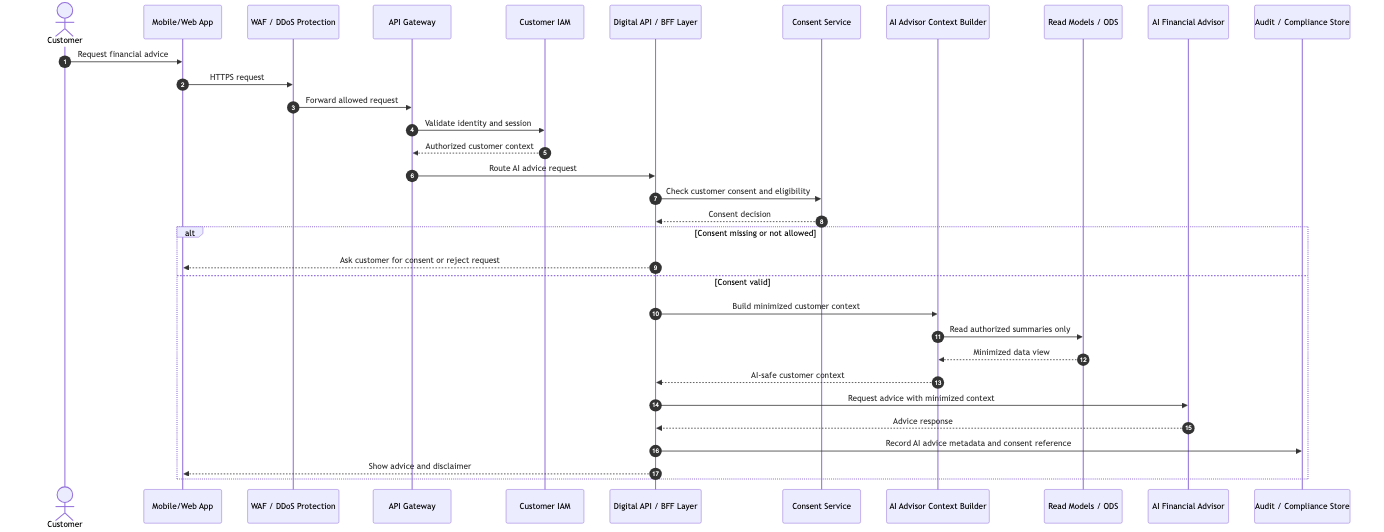
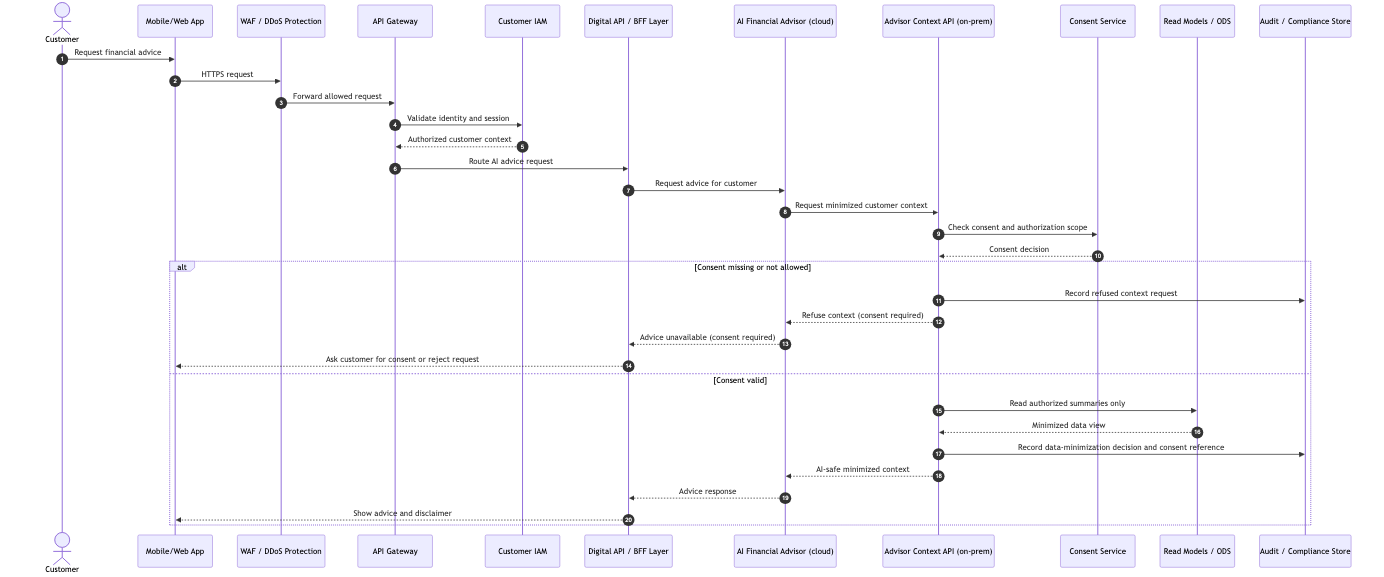
Document AI data-minimization boundary using Advisor Context API (D-008). Updated glossary, HLD, diagrams, and open issues to reflect design decisions and audit trail schema. Added new concurrency and fraud-reversal requirements (NFR-PC-015, FN-075).

diff --git a/docs/ms1-presentation/index.html b/docs/ms1-presentation/index.html
@@ -262,38 +262,41 @@
     box-shadow: var(--shadow);
   }
 
-  /* Vertical flow stack (slide 7) */
+  /* Vertical flow stack (slide 7) — text on top, full-width image below */
   .flow-grid {
     flex: 1;
+    min-height: 0;
     display: flex;
     flex-direction: column;
-    gap: 14px;
+    gap: 12px;
     width: 100%;
-    max-width: 1000px;
-    margin: 16px auto 0;
-    align-items: center;
+    margin: 16px 0 0;
   }
   .flow-card {
     background: var(--bg-2);
     border: 1px solid var(--grid);
     border-radius: 10px;
-    padding: 14px 20px 16px;
+    padding: 12px 20px 14px;
     width: 100%;
+    flex: 1;
+    min-height: 0;
     display: flex;
-    flex-direction: row;
-    align-items: center;
-    gap: 24px;
+    flex-direction: column;
+    gap: 8px;
     text-align: left;
   }
   .flow-card-text {
-    flex: 1;
+    flex: 0 0 auto;
+    display: flex;
+    align-items: baseline;
+    gap: 16px;
     min-width: 0;
   }
   .flow-card-title {
     color: var(--accent);
     font-weight: 700;
     font-size: 1.2em;
-    margin-bottom: 4px;
+    white-space: nowrap;
   }
   .flow-card-caption {
     color: var(--fg-dim);
@@ -301,17 +304,16 @@
     line-height: 1.4;
   }
   .flow-card-image {
-    flex: 0 0 auto;
+    flex: 1;
+    min-height: 0;
+    width: 100%;
     display: flex;
     align-items: center;
     justify-content: center;
-    max-height: 160px;
   }
   .flow-card-image img {
-    max-width: 380px;
-    max-height: 160px;
-    width: auto;
-    height: auto;
+    width: 100%;
+    height: 100%;
     object-fit: contain;
   }
 
@@ -454,11 +456,11 @@
 <main class="deck" id="deck">
 
   <!-- Slide 1: Title -->
-  <section class="slide title-slide centered" data-notes="I'm [name]. This is the MS1 preliminary solution for NeoBank Digital Leap, the Software Architecture course final project. I won't spend time on the bank or the requirements — you know them. I'll spend the next ten minutes on the design decisions and what we learned.">
+  <section class="slide title-slide centered" data-notes="I'm Yiannis. This is the MS1 preliminary solution for NeoBank Digital Leap, the Software Architecture course final project. I won't spend time on the bank or the requirements — you know them. I'll spend the next ten minutes on the design decisions and what we learned.">
     <h1>NeoBank Digital Leap</h1>
     <div class="accent-line"></div>
     <p class="subtitle">Software Architecture — MS1 Preliminary Solution</p>
-    <p class="meta">Replace with your name, date, and course tag.</p>
+    <p class="meta">Yiannis Miliaresis, 2026-07-08, GDE Architecture - Week 7.</p>
   </section>
 
   <!-- Slide 2: The constraint that shaped everything -->
@@ -517,22 +519,22 @@
   </section>
 
   <!-- Slide 4: Insight #2 — Reads and writes are different -->
-  <section class="slide" data-notes="The second aha-moment was a number. The mainframe does about five thousand transactions per second. A million users, each checking their balance once a day, is roughly twelve reads per second on average — but during business hours it's a hundred-plus, and during a payroll run it's thousands. Across the whole day, we need to absorb a million balance checks. A million reads a day, all going through the mainframe, would crush it. Even if it didn't, every read costs the bank money — the mainframe bills by the operation. So the design has to separate reads from writes. That's CQRS. Commands — money-moving operations — go to the CBS. Queries — balance checks, account lookups, reports — go to replicated projections in the ODS, populated by change-data-capture from the mainframe. The ODS is not a second system of record. It's a projection, refreshed from the source of truth. The bank accepts a 24-hour staleness window on incoming external transactions — that's the only honest trade-off — and the rest of the read path is fully consistent. Without this split, the architecture is infeasible. CQRS isn't an optimization. It's the reason the MVP can launch at all.">
+  <section class="slide" data-notes="The second aha-moment was about money, not throughput. The mainframe bills by the operation. A million users, each checking their balance once a day, is a million billable reads — every day, forever. On average that's only about twelve reads per second, which the mainframe could technically absorb — but the bank would pay for every single one, and during business hours and payroll runs the spikes reach thousands of reads per second, contending with the transaction workload the mainframe exists to protect. So the design has to separate reads from writes. That's CQRS. Commands — money-moving operations — go to the CBS. Queries — balance checks, account lookups, reports — go to replicated projections in the ODS, populated by change-data-capture from the mainframe. The ODS is not a second system of record. It's a projection, refreshed from the source of truth. The bank accepts a 24-hour staleness window on incoming external transactions — that's the only honest trade-off — and the rest of the read path is fully consistent. Without this split, the architecture is infeasible. CQRS isn't an optimization. It's the reason the MVP can launch at all.">
     <div class="insight-headline">CQRS isn't an optimization. <em>It's a survival strategy.</em></div>
     <div class="math-callout">
       <div class="math-cell">
-        <div class="math-num">5,000</div>
-        <div class="math-label">mainframe tx/sec</div>
+        <div class="math-num">$ / op</div>
+        <div class="math-label">the mainframe bills every operation</div>
       </div>
       <div class="math-cell">
-        <div class="math-num danger">vs</div>
+        <div class="math-num danger">×</div>
       </div>
       <div class="math-cell">
         <div class="math-num">~1M</div>
-        <div class="math-label">reads/day from 1M users</div>
+        <div class="math-label">reads/day from 1M users — plus payroll-day spikes of thousands/sec</div>
       </div>
     </div>
-    <p class="lead">If reads went to the mainframe, the MVP doesn't launch. The mainframe is a payment-per-operation machine — every read costs the bank money.</p>
+    <p class="lead">If reads went to the mainframe, the MVP doesn't launch — on cost alone. And the read spikes would contend with the transaction workload the mainframe exists to protect.</p>
     <div class="math-result">
       <div class="math-result-text">Solution: commands to CBS · queries to replicated projections in the ODS</div>
     </div>
@@ -559,13 +561,13 @@
   </section>
 
   <!-- Slide 6: The C4 -->
-  <section class="slide image-slide" data-notes="Here's the architecture in one diagram. I'll walk it left to right, but I'll anchor each region back to one of the three insights. Far left: the three external actors — mobile, web, and Open Banking third-party providers. All three enter through the WAF. That's Insight #1's first consequence: there is exactly one public front door. Rule 1. The WAF forwards to the API Gateway, which authenticates and routes to the BFF. The BFF is the only thing the cloud and on-prem worlds share directly. Now into the on-prem Digital Core. Account, Consent, Report, Transfer, and the AI's advisor context — all reachable from the BFF, all serving the bank's regulated, mainframe-adjacent workloads. The Transfer Service is the one that touches the ledger: it goes through the Real-Time Fraud Engine, and if approved, through the CBS Transaction Gateway, to reach the CBS. That's Insight #1's second consequence: the mainframe has exactly one door, and we never bypass it. Rule 2. The AI Advisor sits in the cloud. But its data access is mediated by the Advisor Context API, which is on-prem. That's Insight #3: the AI is a privacy boundary, not a feature. Rule 3. On the data side: CDC from DB2 and ADABAS flows into adapters, into a durable event bus, into the ODS. Insight #2 in action: reads come from projections, not from the mainframe. Three boundaries, color-coded. Yellow for cloud, orange for on-prem, red for legacy. Three rules. The C4 is just the picture of the constraints and the consequences. Note: this is the Mermaid-rendered horizontal view for the slide. The full C4 Container view is in docs/diagrams/neobank-digital-leap-c4.drawio and the Mermaid C4 mirror is in docs/diagrams/07-c4-container.mmd.">
+  <section class="slide image-slide" data-notes="Here's the architecture in one diagram. I'll walk it left to right, but I'll anchor each region back to one of the three insights. Far left: the three external actors — mobile, web, and Open Banking third-party providers. All three enter through the WAF. That's Insight #1's first consequence: there is exactly one public front door. Rule 1. The WAF forwards to the API Gateway, which authenticates and routes to the BFF. The BFF is the only thing the cloud and on-prem worlds share directly. Now into the on-prem Digital Core. Account, Consent, Report, Transfer, and the AI's advisor context — all reachable from the BFF, all serving the bank's regulated, mainframe-adjacent workloads. The Transfer Service is the one that touches the ledger: it goes through the Real-Time Fraud Engine, and if approved, through the CBS Transaction Gateway, to reach the CBS. That's Insight #1's second consequence: the mainframe has exactly one door, and we never bypass it. Rule 2. The AI Advisor sits in the cloud. But its data access is mediated by the Advisor Context API, which is on-prem. That's Insight #3: the AI is a privacy boundary, not a feature. Rule 3. On the data side: CDC from DB2 and ADABAS flows into adapters, into a durable event bus, into the ODS. Insight #2 in action: reads come from projections, not from the mainframe. Three boundaries, color-coded. Yellow for cloud, orange for on-prem, red for legacy. Three rules. The C4 is just the picture of the constraints and the consequences. Note: the image is the C4 Container view exported from docs/diagrams/neobank-digital-leap-c4.drawio; the Mermaid mirror is docs/diagrams/07-c4-container.mmd. If asked about the AWS labels: they are working candidates pending OI-001, the cloud provider and region approval.">
     <h2>The C4</h2>
     <p class="lead">Three boundaries · three rules · one mainframe · one source of truth.</p>
     <div class="image-frame">
       <img src="img/c4.png" alt="C4 Container view of NeoBank Digital Leap">
     </div>
-    <p class="small">Source: <code>docs/diagrams/01-high-level-solution.mmd</code> (horizontal walk) · Full C4: <code>docs/diagrams/neobank-digital-leap-c4.drawio</code> · Mermaid C4 mirror: <code>docs/diagrams/07-c4-container.mmd</code></p>
+    <p class="small">Source: <code>docs/diagrams/neobank-digital-leap-c4.drawio</code> (C4 Container view) · Mermaid mirror: <code>docs/diagrams/07-c4-container.mmd</code> · AWS labels are candidates pending OI-001</p>
   </section>
 
   <!-- Slide 7: The 3 flows -->
@@ -597,7 +599,7 @@
   </section>
 
   <!-- Slide 8: What we'd revisit -->
-  <section class="slide" data-notes="Now the part the teacher asked for — what we'd do differently with more time. We don't have aha-moments without also having things we got wrong. Four. First, the 24-hour staleness tolerance. It's an honest trade-off, but it can hurt customer trust if a balance looks wrong. With more time, we'd add a 'live refresh on transfer' pattern — any time a transfer touches a balance, the BFF forces a fresh read through a synchronous path. For MVP, we accepted the trade-off. Second, the five COBOL developers. We have five deep experts on the system that processes 99.999% of the bank's money. That's a feature, not a bug — but it's also a capacity risk. With more time, we'd pair-program the Java team with the COBOL team on the CBS Gateway contract, and document runbooks so the gateway is operable by more than five people. Third, no DR topology yet. The C4 shows HA markers on the CBS Gateway, the event bus, and the ODS — but those are aspirational. The full network topology and DR runbook is MS2 work; we have a scaffold. Fourth, the ODS vendor. Oracle, SQL Server, or Db2 — all viable. We deferred the decision to MS2. The architecture works for any of the three, so the decision is a procurement call, not a design call. We're not inventing rockets. We're building a working system, and these are the rough edges.">
+  <section class="slide" data-notes="Now the part the teacher asked for — what we'd do differently with more time. We don't have aha-moments without also having things we got wrong. Four. First, the 24-hour staleness tolerance. It's an honest trade-off, but it can hurt customer trust if a balance looks wrong. With more time, we'd add a 'live refresh on transfer' pattern — any time a transfer touches a balance, the BFF forces a fresh read through a synchronous path. For MVP, we accepted the trade-off. Second, the five COBOL developers. We have five deep experts on the system that processes 99.999% of the bank's money. That's a feature, not a bug — but it's also a capacity risk. With more time, we'd pair-program the Java team with the COBOL team on the CBS Gateway contract, and document runbooks so the gateway is operable by more than five people. Third, no DR topology yet. The C4 carries an explicit 'DR and HA markers to be completed in MS2' note — deliberately visible, not hidden. The full network topology and DR runbook is MS2 work; we have a scaffold. Fourth, the ODS vendor. Oracle, SQL Server, or Db2 — all viable. We deferred the decision to MS2. The architecture works for any of the three, so the decision is a procurement call, not a design call. We're not inventing rockets. We're building a working system, and these are the rough edges.">
     <h2>What we'd revisit</h2>
     <p class="lead">Honest trade-offs, not apologies. Every architectural choice has a rough edge; here's ours.</p>
     <table class="revisit-table">
@@ -621,7 +623,7 @@
         </tr>
         <tr>
           <td class="risk-name">No DR topology yet</td>
-          <td>The C4 marks ‖ HA pairs on the CBS Gateway, the event bus, and the ODS — but those are aspirational. The full network topology and DR runbook is not yet designed.</td>
+          <td>The C4 explicitly defers DR/HA topology to MS2 (visible note on the diagram). The full network topology and DR runbook is not yet designed.</td>
           <td>Full network topology + DR runbook in MS2 (scaffold ready in <code>docs/diagrams/06-network-topology.mmd</code>).</td>
         </tr>
         <tr>
@@ -634,7 +636,7 @@
   </section>
 
   <!-- Slide 9: What's open -->
-  <section class="slide" data-notes="For MS2 in Week 13: we add the four diagrams — security boundary, network topology, performance, and data flow. We resolve the eleven open questions. We pick the ODS vendor. We design the DR topology. Final HLD is due at the end of the course. Any questions?">
+  <section class="slide" data-notes="For MS2 in Week 13: we add the four diagrams — security boundary, network topology, performance, and data flow. We resolve the twelve open questions, including the newest one: how an executed transfer gets reversed when offline fraud analytics flags it after the fact. We pick the ODS vendor. We design the DR topology. Final HLD is due at the end of the course. Any questions?">
     <h2>What's open</h2>
     <div class="timeline">
       <div class="timeline-step current">

diff --git a/docs/01-ms1-preliminary-solution.md b/docs/01-ms1-preliminary-solution.md
@@ -127,6 +127,7 @@ The channels must not bypass the WAF and must not point directly to the API Gate
 | Offline Fraud Analytics / Batch Risk Scoring | Performs deeper fraud analysis using larger historical datasets and longer processing windows. Produces risk findings, rules, and model feedback for the real-time fraud engine. |
 | Income / Expense Report Service | Generates monthly income/expense reports from categorized transaction data. |
 | Open Banking Consent Service | Manages customer consent and access boundaries for third-party providers. |
+| Advisor Context API | Data-minimization boundary for the cloud AI Financial Advisor (D-008). Checks consent scope with the Consent Service, reads only authorized projections from the ODS, and records data-minimization decisions in the audit log. The AI advisor never reads the ODS directly. |
 | CBS Transaction Gateway | Single controlled interface for executing CBS transactions. Handles idempotency, validation, throttling, and audit. |
 | DB2 Adapter | Ingests transactional data from DB2 into the event bus/read models. |
 | ADABAS Adapter | Ingests customer data from ADABAS into the event bus/read models. |
@@ -167,9 +168,9 @@ DB2 and ADABAS adapters ingest legacy data changes into the durable event bus. P
 
 ### 6.4 AI Financial Advisor Flow
 
-The AI advisor runs in the regional cloud. It does not directly access CBS, DB2, or ADABAS. It receives minimized, authorized, and regionally compliant customer context through the Digital API/BFF layer and on-premises services.
+The AI advisor runs in the regional cloud. It does not directly access CBS, DB2, ADABAS, or the ODS. It requests minimized customer context from the on-premises Advisor Context API, which checks consent scope with the Consent Service, reads only authorized projections from the ODS, and returns an AI-safe, regionally compliant context.
 
-**Design decision:** The AI advisor may run in the cloud, but it should only access minimized, authorized, regionally compliant customer data.
+**Design decision:** The AI advisor may run in the cloud, but it only receives minimized, authorized, regionally compliant customer data through the Advisor Context API (D-008). The Advisor Context API — not the AI service — writes the data-minimization audit record.
 
 ---
 
@@ -184,7 +185,7 @@ The AI advisor runs in the regional cloud. It does not directly access CBS, DB2,
 | Fraud real-time decision | Fraud Engine | Transfer Service |
 | Fraud offline analysis | Fraud Analytics Dataset | Offline Fraud Analytics / Batch Risk Scoring |
 | Monthly income/expense report | Derived from transaction data | Report Read Model |
-| AI advice context | Minimized authorized customer view | AI Financial Advisor |
+| AI advice context | Minimized authorized customer view | Advisor Context API |
 | Consent | Consent Service | Consent Store |
 | Audit trail | Audit / Compliance Store | Append-only audit queries |
 

diff --git a/docs/ms1-presentation-prep.md b/docs/ms1-presentation-prep.md
@@ -4,7 +4,8 @@
 > 1. C4 diagram reference (the architectural rules to preserve in `docs/diagrams/neobank-digital-leap-c4.drawio`).
 > 2. A full slide-by-slide setup with speaker notes — rewritten around Jukka's note: lead with **insights and aha-moments**, not context; the audience already knows the business goal, requirements, and system landscape.
 >
-> **Status (as of `1b79aaf`):** the .drawio was hardened by the 6 commits between `a7ab9ac` and `770f065` and the C4 cleanup spec below was applied. The current .drawio has all D-001..D-008 boundaries; the C4 Mermaid mirror (`docs/diagrams/07-c4-container.mmd`) matches it. Part 1 below is a **reference for the design rules**, not an open work item.
+> **Status (as of `1b79aaf`):** the .drawio was hardened by the 6 commits between `a7ab9ac` and `770f065` and the C4 cleanup spec below was applied. The current .drawio has all D-001..D-008 boundaries. Part 1 below is a **reference for the design rules**, not an open work item.
+> **Drawio drift: resolved.** The .drawio now carries the "(candidate)" markers on AWS-specific tech labels (pending OI-001), the neutral ODS label (Oracle / SQL Server / Db2, ADR-002), the `Advisor Context API → Audit` edge, and an explicit "DR / HA markers to be completed in MS2" note. The exported `docs/ms1-presentation/img/c4.png` matches. The Mermaid mirror (`docs/diagrams/07-c4-container.mmd`) is in sync.
 
 ---
 
@@ -125,8 +126,8 @@ Mark the CBS Gateway, Event Bus, and Data Stores as HA pairs (e.g. `‖` or `(re
 #### Slide 4 — Insight #2: Reads and writes are different (1:00)
 **Visual**
 - Big headline: **CQRS isn't an optimization. It's a survival strategy.**
-- A small table: *Mainframe: 5,000 tx/sec* vs *1M users × 1 balance check = 1M reads* vs *Result: 200× over budget*
-- One line: *If reads went to the mainframe, the MVP doesn't launch.*
+- A small table: *Mainframe: bills per operation* vs *1M users × daily balance checks = millions of billable reads* vs *Peaks: payroll-day spikes of thousands of reads/sec*
+- One line: *If reads went to the mainframe, the MVP doesn't launch — on cost alone.*
 
 **Speaker**
 > The second aha-moment was a number. The mainframe does about five thousand transactions per second. A million users, each checking their balance once a day, is roughly twelve reads per second on average — but during business hours it's a hundred-plus, and during a payroll run it's thousands. Across the whole day, we need to absorb a million balance checks.

diff --git a/docs/requirements/requirements-draft.md b/docs/requirements/requirements-draft.md
@@ -9,8 +9,9 @@
 | FN-030 | The system shall allow authenticated customers to perform bank transfers to another bank. |
 | FN-040 | The system shall execute all money-moving transactions through a CBS transaction. |
 | FN-050 | The system shall evaluate transfer requests using a real-time fraud detection engine before transaction execution. |
-| FN-060 | The system shall cancel a transaction when fraud is detected and inform the customer in the application. |
+| FN-060 | The system shall cancel a transaction before CBS execution when the real-time fraud engine detects fraud, and inform the customer in the application. |
 | FN-070 | The system shall support offline fraud analytics using larger historical datasets and longer processing windows. |
+| FN-075 | The system shall initiate a reversal (compensating CBS transaction) for a transfer flagged as fraudulent by offline fraud analytics after execution, where legally permitted, and inform the customer in the application (see OI-012 for the reversal mechanism and policy). |
 | FN-080 | The system shall show a monthly income and expenses report to the customer. |
 | FN-090 | The system shall expose Open Banking APIs over REST. |
 | FN-100 | The system shall manage customer consent for Open Banking third-party providers. |
@@ -46,8 +47,9 @@
 | ID | Requirement |
 |---|---|
 | NFR-PC-010 | The system shall support 100,000 digital users within one year. |
+| NFR-PC-015 | The system shall support at least 5,000 concurrent digital user sessions at year-1 scale and 50,000 concurrent sessions at year-3 scale, assuming ~5% peak concurrency of registered users (A-011). |
 | NFR-PC-020 | The system shall support architectural scalability toward 1,000,000 digital users within three years. |
-| NFR-PC-030 | The system shall provide low-latency responses for read-heavy digital use cases through read models and caching. |
+| NFR-PC-030 | The system shall provide low-latency responses for read-heavy digital use cases through read models and caching, with p95 server-side response time of at most 200 ms for account and balance queries. |
 | NFR-PC-040 | The system shall protect the CBS from direct high-volume digital read traffic. |
 | NFR-PC-050 | The system shall monitor event ingestion lag and read model freshness. |
 | NFR-PC-060 | The system shall display account information that may be up to 24 hours stale for incoming transactions from other banks or payments not made through the app, with visible freshness metadata. |

diff --git a/docs/glossary.md b/docs/glossary.md
@@ -3,6 +3,7 @@
 | Term | Meaning |
 |---|---|
 | ADABAS | Legacy database used for customer information in the current NeoBank estate. |
+| Advisor Context API | On-premises data-minimization boundary between the cloud AI Financial Advisor and the ODS. Checks consent scope, returns only authorized minimized customer context, and records the data-minimization decision in the audit log (D-008). |
 | AI Financial Advisor | Cloud-allowed digital service that provides financial guidance based on authorized customer data. |
 | API Gateway | Managed entry point for public APIs, responsible for routing, throttling, request validation, and policy enforcement. |
 | BFF | Backend for Frontend. A client-oriented API layer optimized for mobile and web application needs. |
@@ -17,6 +18,7 @@
 | GDPR | General Data Protection Regulation. European data protection regulation. |
 | IAM | Identity and Access Management. Authentication, authorization, token, and session management capability. |
 | MVP | Minimum Viable Product. The first production launch scope for the one-year delivery target. |
+| NGFW | Next-Generation Firewall. On-premises firewall inspecting and filtering traffic between the cloud link, the DMZ, and internal zones. |
 | ODS | Operational Data Store. A read-optimized data store used for digital queries and operational projections. |
 | Open Banking | Regulated API access pattern that allows third-party providers to access customer banking data with consent. |
 | RDBMS | Relational Database Management System. Example candidates for the ODS include Oracle, SQL Server, and Db2. |

diff --git a/docs/08-open-issues.md b/docs/08-open-issues.md
@@ -19,6 +19,7 @@
 | OI-009 | What is the regulatory approval status of the regional cloud for AI advisor workloads? (A-003) | Legal / Compliance | Open | MS2 |
 | OI-010 | What is the migration / cutover plan for the first 100K digital users? | Operations / Product | Open | MS2 |
 | OI-011 | Is there an existing bank WAF / DDoS service to reuse, or do we provision a new one? | Infrastructure / Security | Open | MS2 |
+| OI-012 | What is the bank's mechanism and policy for reversing an executed transfer flagged by offline fraud analytics — compensating CBS transaction, interbank recall, customer notification and refund SLA? (FN-075) | Fraud / Risk / Mainframe | Open | MS2 |
 
 ## Notes
 

diff --git a/docs/03-assumptions.md b/docs/03-assumptions.md
@@ -21,6 +21,7 @@
 | A-008 | Team profile is ~60 Java + AWS developers with 5 COBOL developers; CBS remains COBOL. | deck p.15 |
 | A-009 | MVP must launch within one year (deck p.13 / p.15). | deck |
 | A-010 | All 1M target users are in the same geographic region within three years (NFR-GDPR-010). | deck p.15 |
+| A-011 | Peak concurrency is ~5% of registered digital users (5K concurrent sessions at 100K users, 50K at 1M). Drives NFR-PC-015 and the sizing in HLD §3.6. | working estimate — validate in MS2 |
 
 ## Notes
 
